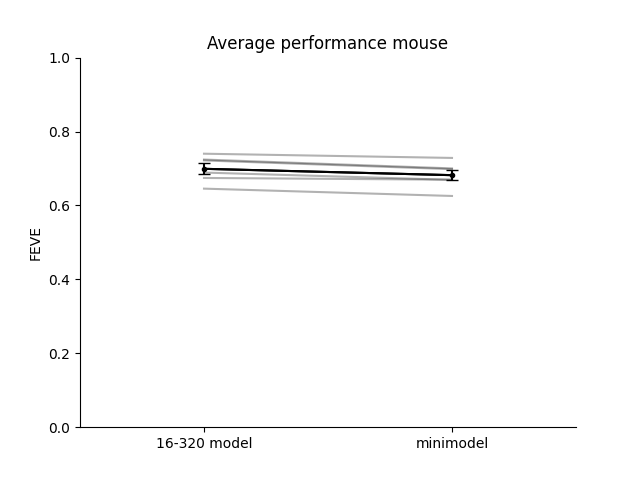
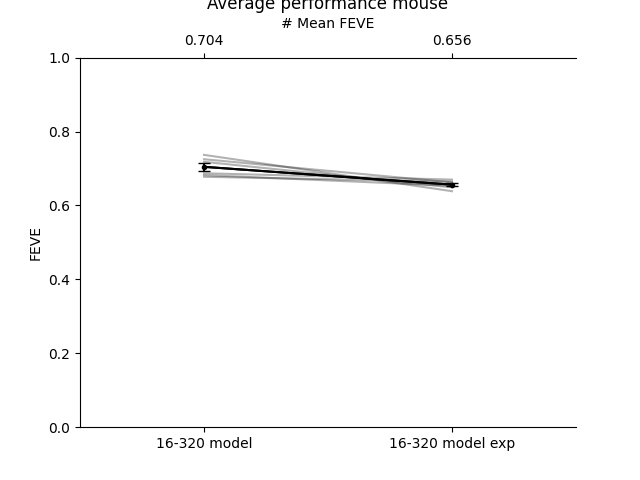
added plotting to compare exp format

Changed region(s): [[0.2812, 0.0, 0.75, 0.125], [0.3125, 0.3125, 0.7188, 0.4375], [0.5938, 0.9062, 0.8125, 0.9375]]

diff --git a/internship/16-320_training_exp.py b/internship/16-320_training_exp.py
@@ -59,11 +59,11 @@ def main():
     test_dl = get_multisession_dataloader(paths, cfg_test)
 
     if cfg_train.dataloader.drop_last:  train_dl_length = len(train_dl) * cfg_train.dataloader.batch_size
-    else:                               train_dl_length = count_samples(train_dl)
+    else:                               train_dl_length = model_trainer_exp.count_samples(train_dl)
     if cfg_val.dataloader.drop_last:    val_dl_length = len(val_dl) * cfg_val.dataloader.batch_size
-    else:                               val_dl_length = count_samples(val_dl)
+    else:                               val_dl_length = model_trainer_exp.count_samples(val_dl)
     if cfg_test.dataloader.drop_last:   test_dl_length = len(test_dl) * cfg_test.dataloader.batch_size
-    else:                               test_dl_length = count_samples(test_dl)
+    else:                               test_dl_length =model_trainer_exp.count_samples(test_dl)
 
     print("length of train_dl: ", train_dl_length)
     print("length of val_dl: ", val_dl_length)
@@ -100,7 +100,7 @@ def main():
     print('loaded model', model_path)
 
     # --- test model ---
-    img_test, spks_rep_all, unique_ids = build_img_test_and_spks_rep_all(test_dl, device=device)
+    img_test, spks_rep_all, unique_ids = model_trainer_exp.build_img_test_and_spks_rep_all(test_dl, device=device)
     print("Total test images used: ", len(unique_ids))
     print("img_test: ", img_test.shape)
     print("spks_rep_all: ", spks_rep_all.shape)
@@ -126,51 +126,7 @@ def main():
     ineur = np.arange(0, NN)
     np.savez(results_file_path, FEV_scores=test_fev, FEVE_scores=test_feve, neurons_index=ineur)
 
-def count_samples(dl):
-    n = 0
-    for _, batch in dl:
-        n += batch["responses"].shape[0]
-    return n
 
-
-def build_img_test_and_spks_rep_all(test_dl, device="cpu"):
-    reps = defaultdict(list)      # image_id -> list of (n_neurons,) numpy arrays
-    img_by_id = {}                # image_id -> img , torch tensor (1,66,130)
-
-    for _, batch in test_dl:
-        spks_batch = batch["responses"]     # (B,1,N)
-        img_batch = batch["screen"]         # (B,66,1,130) or similar
-        img_ids = batch["image_id"]          # (B,)
-
-        # ---- to CPU for storage ----
-        spks_batch = spks_batch.squeeze().detach().cpu().numpy()    # (B,1,N) -> (B,N)
-        
-        img_batch = img_batch.squeeze().unsqueeze(1)    # (B,66,1,130) -> (B,1,66,130)
-        img_batch = img_batch.detach().cpu()
-        
-        img_ids = img_ids.detach().cpu().numpy()
-
-        # ---- group by image_id ----
-        for i in range(len(img_ids)):
-            image_id = int(img_ids[i])
-            reps[image_id].append(spks_batch[i])
-
-            # store first occurrence of the image
-            if image_id not in img_by_id:
-                img_by_id[image_id] = img_batch[i]  # (1,66,130)
-
-    # stable ordering
-    unique_ids = sorted(reps.keys())
-
-    # img_test: (n_unique,1,66,130)
-    img_test = torch.stack([img_by_id[k] for k in unique_ids], dim=0).to(device)
-
-    # spks_rep_all
-    spks_rep_all = np.empty(len(unique_ids), dtype=object)  # np.array (n_unique, )
-    for i, image_id in enumerate(unique_ids):
-        spks_rep_all[i] = np.stack(reps[image_id], axis=0)  # one sample of np.array (n_repeats, n_neurons)
-
-    return img_test, spks_rep_all, unique_ids
 
 
 
